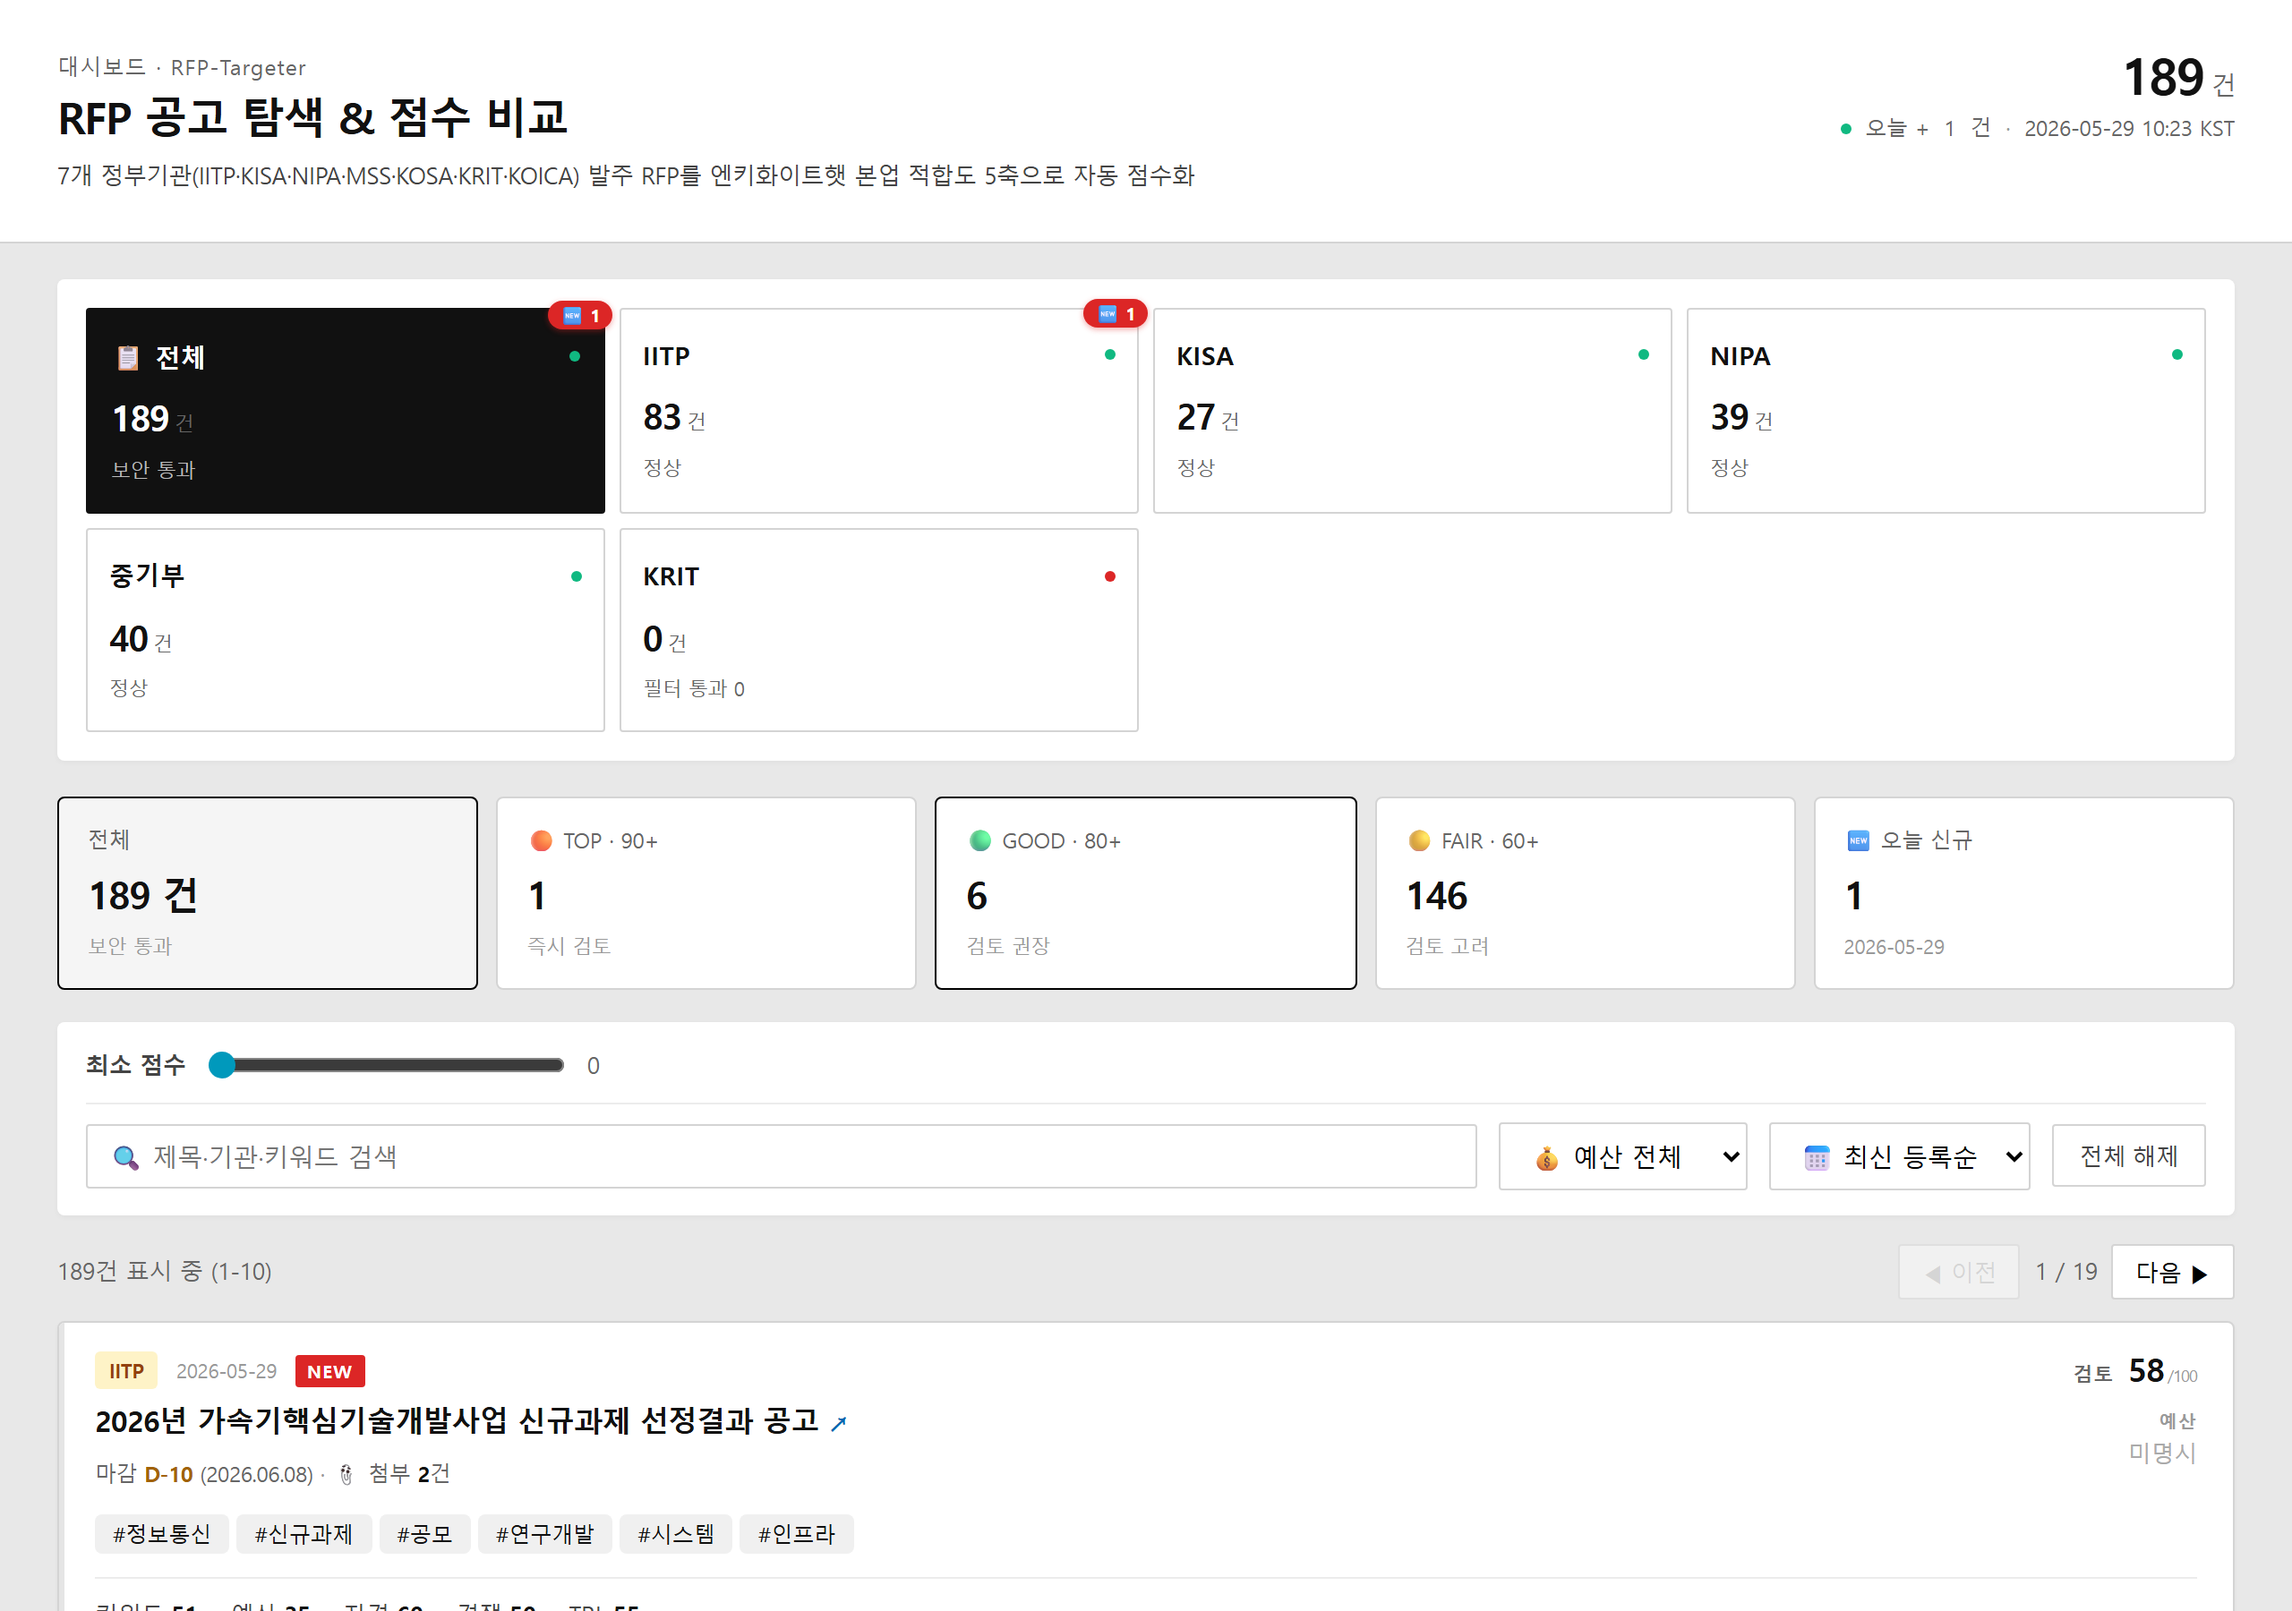
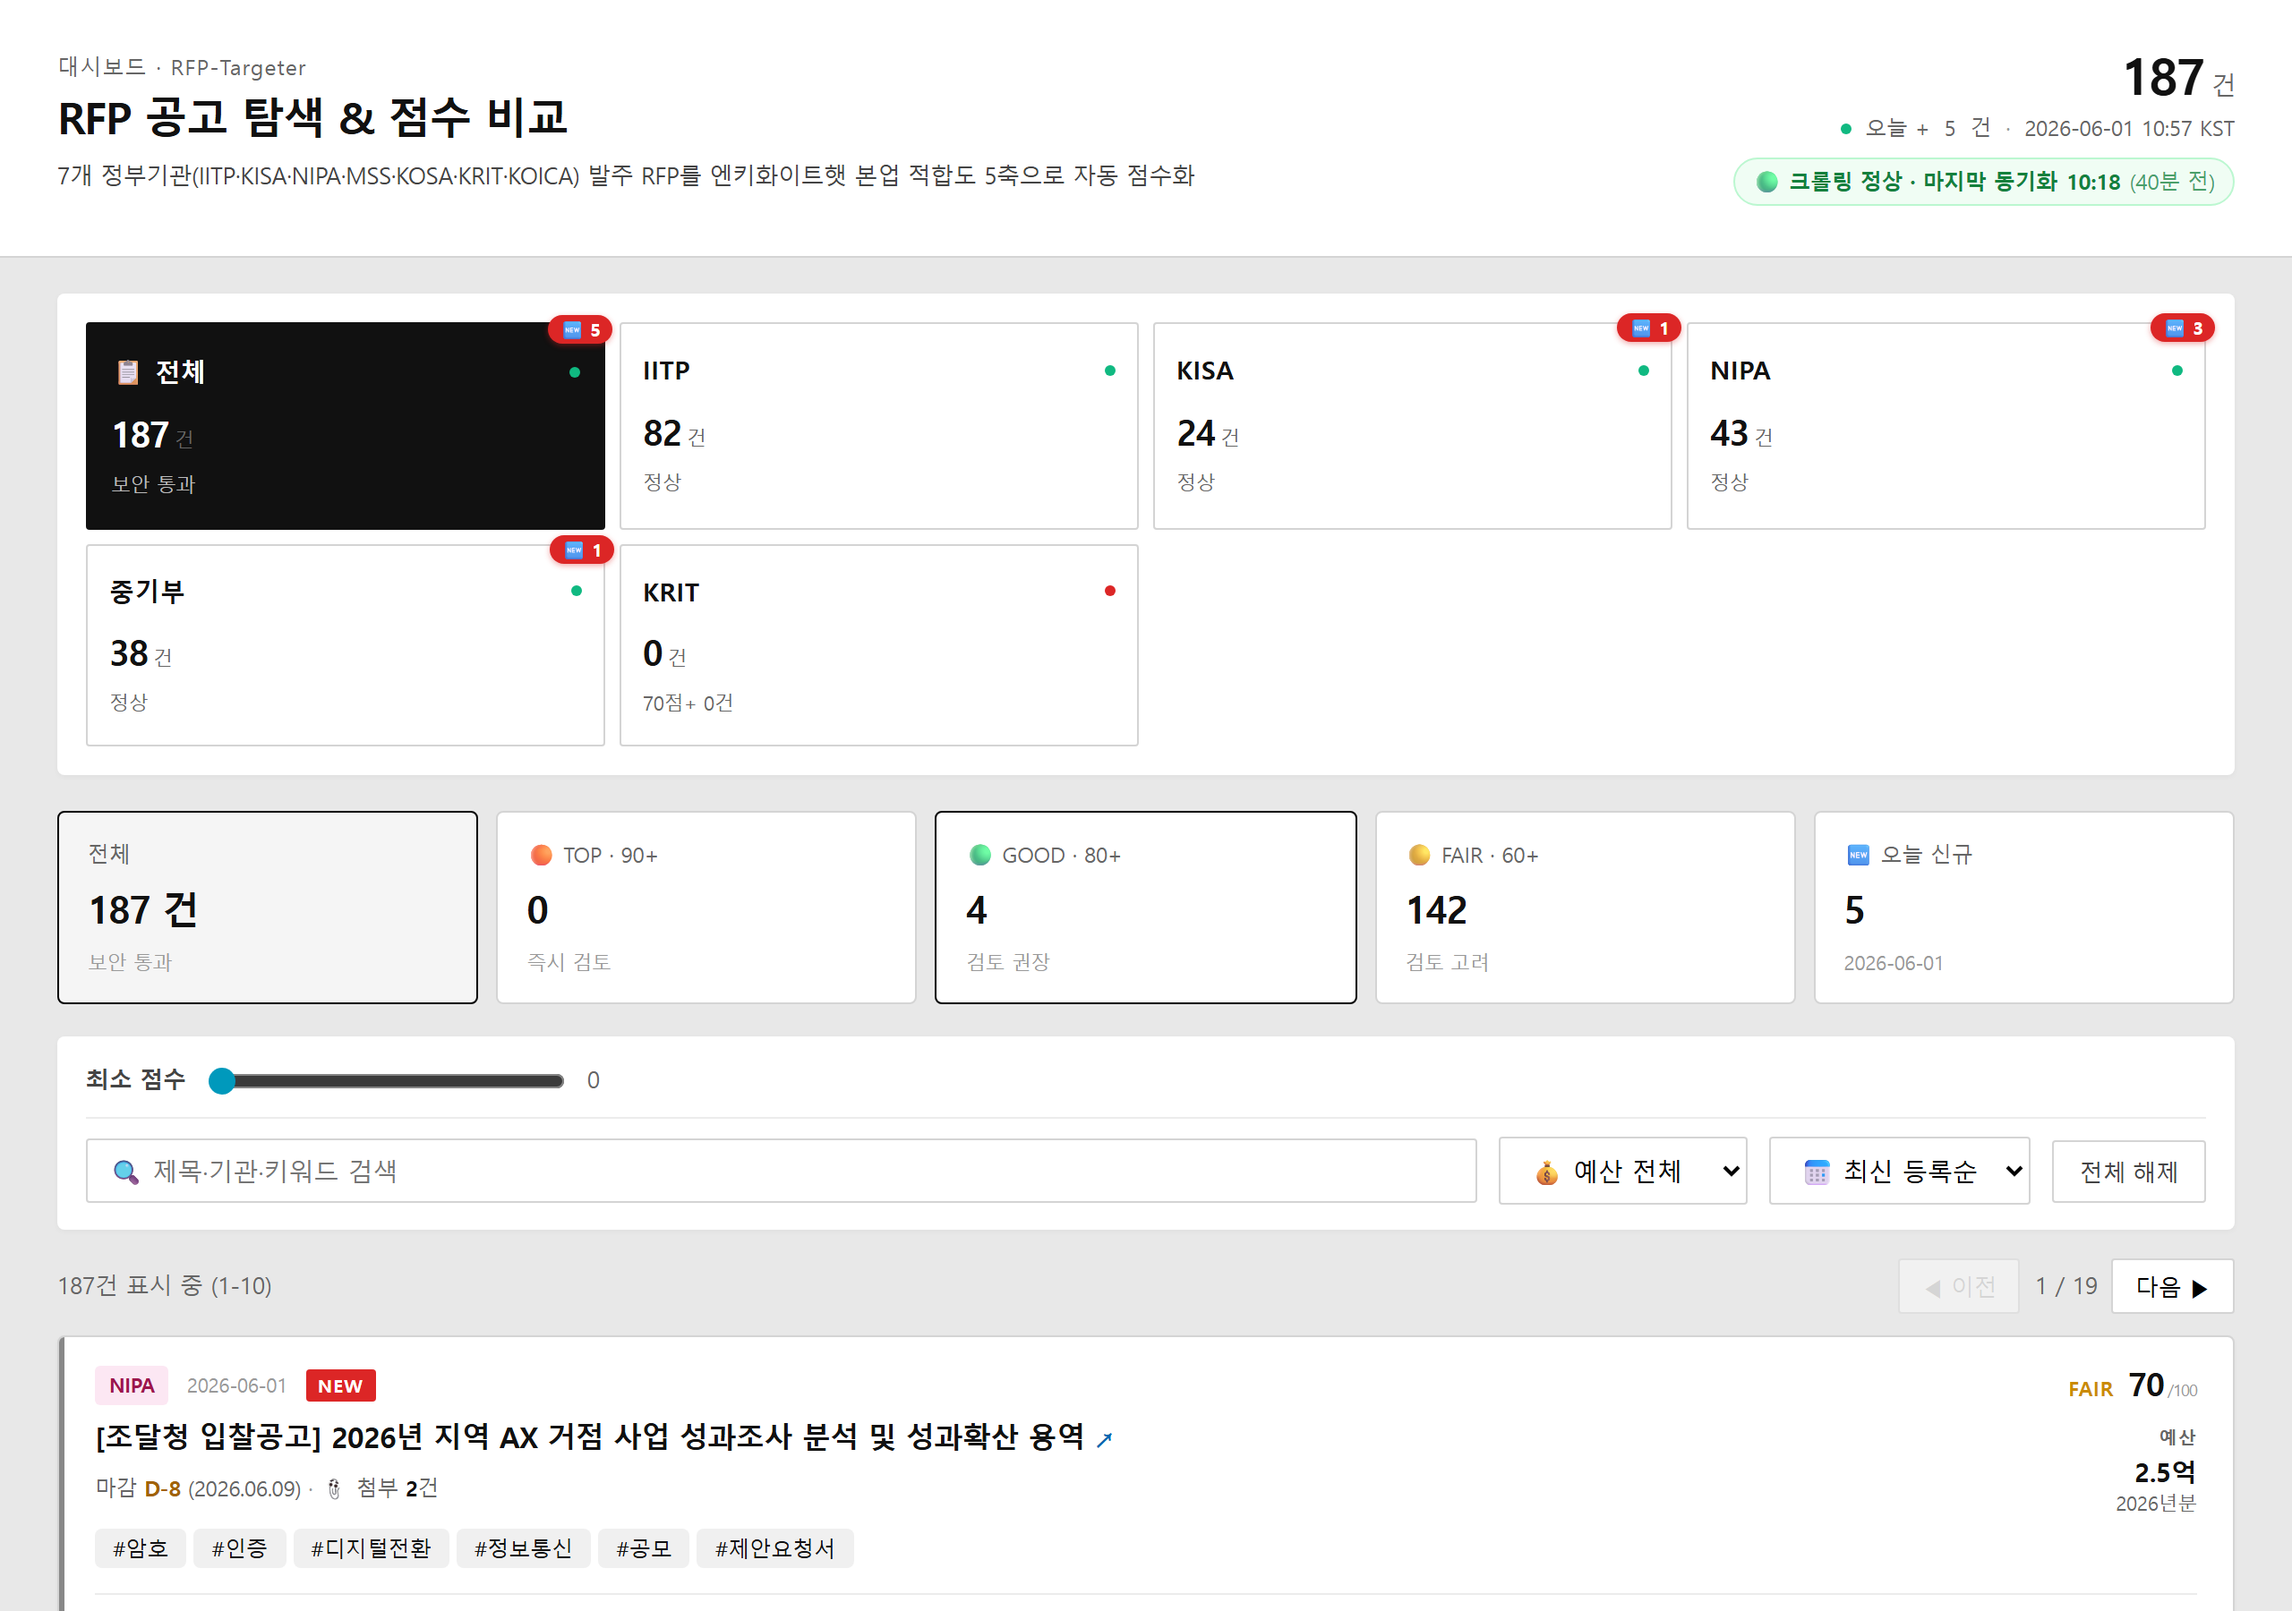
docs: 크롤 상태 가시화 + NEW 배지 픽스 기록 + 대시보드 스크린샷 갱신
PROJECT_STATE 2026-06-01 그룹 추가(하트비트/상태배지/workflow_run/init_db
픽스 + 소스 NEW 배지 KST 픽스). 스크린샷에 새 상태배지·NEW배지 반영.

diff --git a/PROJECT_STATE.md b/PROJECT_STATE.md
@@ -110,6 +110,11 @@ alert:
 
 ## 🎯 최근 주요 변경 (시간 역순)
 
+### 2026-06-01
+- **크롤 상태 가시화 (하트비트 + 홈 배지 + 자동 빌드)** — [사용자 요청] 크롤완료 메시지를 끈 뒤 '살아있다' 신호 보완. (1) **일일 하트비트**: 매일 09시 KST `notify_daily_heartbeat` 1회 "✅ 지난 24h N회 정상 · 마지막 동기화 HH:MM" (`meta` 테이블 dedup, `daily_heartbeat_enabled`). (2) **홈 헤더 크롤 상태 배지**: `build_static.py`가 `fetch_log` 마지막 동기화 시각(UTC ISO)+24h 통계를 data.json 에 baking → `app.js`가 **조회 시점 기준 실시간** 색 전환(🟢<90분/🟡<180/🔴). 빌드 멈춰도 정직. (3) **`build_static.yml` workflow_run**: 크롤(Hourly Crawl) 완료 직후 자동 빌드 — GitHub schedule(:05) 지연·스킵 보정(cron-job.org 아님). + **init_db 트랜잭션 격리 픽스**: Supabase pgbouncer multi-statement abort 시 후속 DDL 이 swallow 되고 commit→rollback 되어 새 테이블(meta) 누락되던 버그 → DDL 마다 독립 트랜잭션.
+- **소스 카드 NEW 배지 + '오늘 신규' KST 픽스** — [사용자 요청] NIPA 등에 오늘 신규가 있어도 소스 카드에 NEW 배지 미표시. 원인: `today_new_by_src` 를 서버(build_static)가 러너 **UTC** `datetime.now()` 로 계산 → KST 00~09시(=UTC 전날) 빌드에서 당일 신규를 0으로 셈. 해결: (a) build_static `today`→KST(Asia/Seoul), (b) UI 의 모든 '오늘' 판정(헤더·전체·소스·KPI·필터·카드 NEW)을 client KST 재계산(`todayKST`/`countNewToday`)으로 통일 → `toISOString`(UTC) 제거. 카드 NEW 와 소스 배지 항상 일치.
+
+### 2026-05-29 이전
 1. **2026-05-29** — KRIT 단독 점수 70+ 만 대시보드 노출 — [사용자 결정] KRIT은 PMS(Nexacro popup) 구조상 본문 접근 불가 → body 없음 → 키워드/예산/자동추천 다 부실 → 점수 천장 50점대. 게다가 모두 국방 R&D 영역이라 사이버 본업 부적합. 완전 OFF 대신 70+ 임계만 노출 (고품질 KRIT 자동 캐치 여지). `build_static.py` WHERE 에 `NOT (source='krit' AND COALESCE(total_score,0)<70)` 추가, KRIT 카드 라벨 "필터 통과 0"→"70점+ 0건". 다른 6개 소스 영향 0, 슬랙(80+ AND 1억+)도 영향 0(KRIT는 budget NULL이라 어차피 미발사). 라이브 5건(52~54점) 즉시 미노출
 2. **2026-05-29** — 슬랙 개편 — (1) "크롤 완료" 메시지 OFF (`alert.crawl_complete_enabled=false`), (2) "크롤 실패(소스 에러)" 경보 신설 (`notify_crawl_failure`, `crawl_failure_enabled=true`, 영업시간 가드 — 워크플로 전체 정지는 monitor가 별도 커버), (3) 예산 표시 버그픽스 `/1000→/100` (budget_mw는 백만원 단위=1억100, 10억을 1억으로 오표기하던 문제 — 슬랙·대시보드 양쪽). 신규 공고 알림은 기존대로 **80+ AND 1억+**
 3. **2026-05-29** — KRIT 중복 누적 차단 (external_id 결정적 해시) — `abs(hash(title))` 는 PYTHONHASHSEED 로 프로세스마다 값이 달라 매 크롤 새 id → dedup 실패 → 같은 공고 5배씩 중복. `hashlib.sha1(title)[:12]` 결정적 해시로 교체 + 묵은/중복 행 soft-delete(`scripts/cleanup_krit_dupes.py`). 라이브 KRIT **5건 확정** (중복·군용 0)
